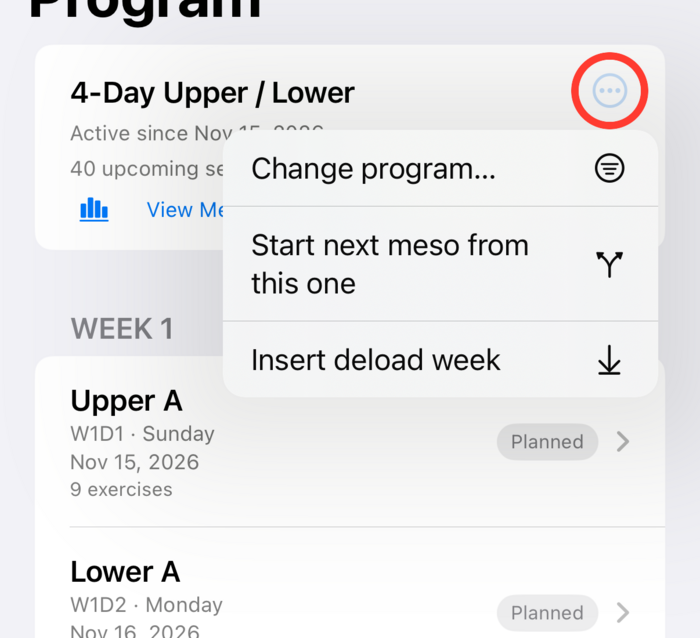
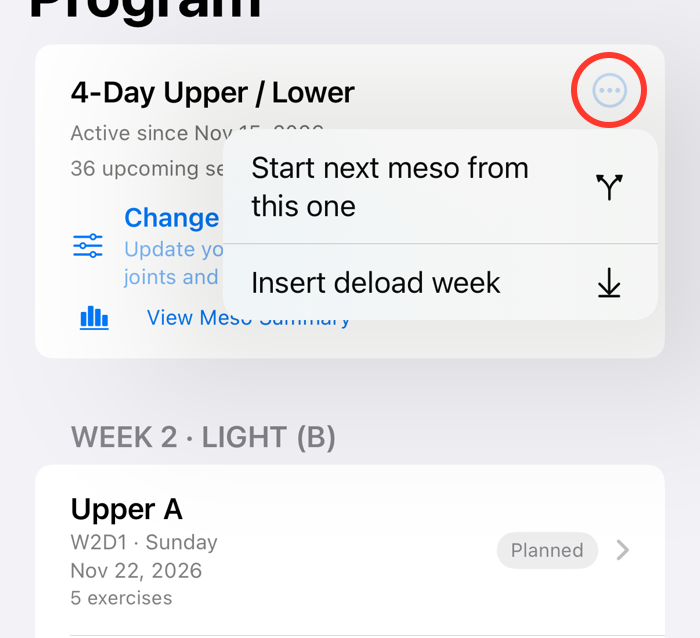
Guide: re-shot g6_block_menu.png (menu shows Start next meso / Insert deload week) and its alt text
Guide.html md5 5a79432f4a520aca2c2e43056099a3e1 (was 561463fee8ad0fb758eb5281fb194805). Only the image alt text changed.

diff --git a/ElitePerformance/Resources/Guide/Guide.html b/ElitePerformance/Resources/Guide/Guide.html
@@ -73,7 +73,7 @@ nav{margin:4px 0 8px} nav a{display:block;padding:4px 0;text-decoration:none}
 <p><em>In Edit mode, drag by the handle to reorder, then tap Done.</em></p>
 <p><strong>Block actions</strong> other than Change program (shown on the block card itself) live behind the <strong>…</strong> menu on the block card, so they can&#39;t be tapped by accident. <strong>View Meso Summary</strong> stays visible.</p>
 <table><thead><tr><th>Action</th><th>What it does</th><th>Safeguards</th></tr></thead><tbody><tr><td>Start next meso from this one</td><td>Builds your next block with the same days and exercises, starting at 95% of your best sets</td><td>Backs up first; mid-block it asks before ending the current block, and refuses if a remaining session has logged sets</td></tr><tr><td>Insert deload week</td><td>Adds a lighter week and shifts later sessions back a week</td><td>Backs up first; shows the changes before applying</td></tr><tr><td>Change program</td><td>Replaces the rest of this block with a new program</td><td>Backs up first; lists exactly which sessions will be removed; refuses if any of them has logged sets or is in progress</td></tr></tbody></table>
-<p><img src="g6_block_menu.png" alt="The block card&#39;s menu: Change program, Start next meso, Insert deload week"></p>
+<p><img src="g6_block_menu.png" alt="The block card&#39;s menu: Start next meso, Insert deload week"></p>
 <p><em>Block actions are in the menu at the top right of the block card.</em></p>
 <h2 id="history-meso-summary-and-records">History, Meso Summary and records</h2>
 <p><strong>History</strong> lists every completed session, newest first, with its lifts, sets and volume. Tap one to see what you logged. <strong>Block recap</strong> at the top opens the Meso Summary for your current block.</p>
